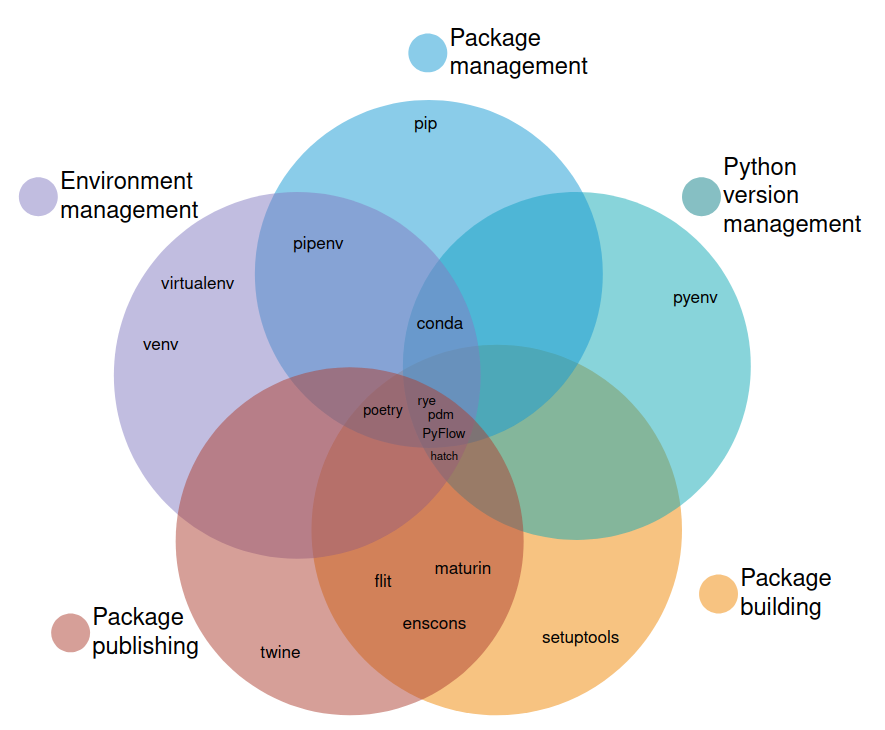
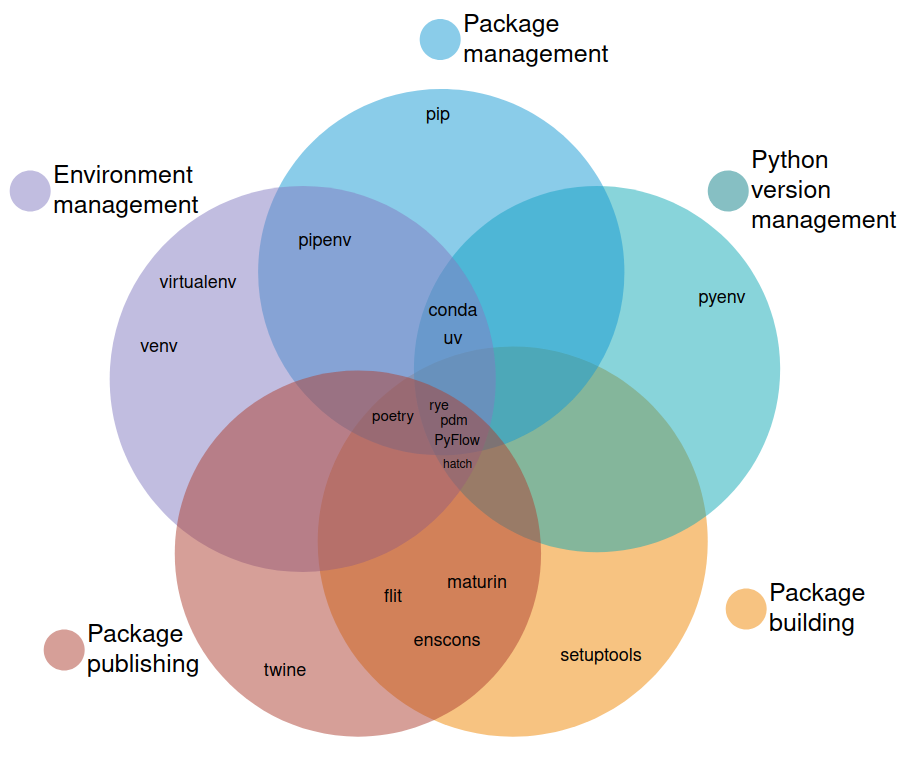
Updated existing packages, added uv

diff --git a/content/posts/python/packaging_tools.md b/content/posts/python/packaging_tools.md
@@ -9,6 +9,9 @@ menu:
     weight: 1
 ---
 
+## Last update
+This post was last updated on August 29th, 2024.
+
 ## Motivation
 When I started with Python and created my first package I was confused. Creating and managing a package seemed much harder than I expected. In addition, multiple tools existed and I wasn't sure which one to use. I'm sure most of you had the very same problem in the past. Python has a zillion tools to manage virtual environments and create packages and it can be hard (or almost impossible) to understand which one fits your needs. Several talks and blog post on the topic exist, but none of them gives a complete overview or evaluates the tools in a structured fashion. This is what this post is about. I want to give you a truly unbiased evaluation of existing packaging and environment management tools. In case you'd rather watch a talk, take a look at the recording of [PyCon DE 2023](https://www.youtube.com/watch?v=MsJjzVIVs6M) or [EuroPython 2023](https://www.youtube.com/watch?v=3-drZY3u5vo).
 
@@ -23,7 +26,7 @@ For the purpose of this article I identified five main categories that are impor
 
 As you can see in the Venn diagram below, lots of tools exist. Some can do a single thing (i.e. they are single-purpose), others can perform multiple tasks (hence I call them multi-purpose tools). 
 
-{{< img src="/posts/python/figures/venn_diagram.png" width="60%" align="center" >}}
+{{< img src="/posts/python/figures/venn_diagram_updated_08_2024.png" width="60%" align="center" >}}
 
 Let's walk through the categories keeping a developers perspective in mind. Let's say you are working on a personal project alongside your work projects. At work you're using Python 3.7 whereas your personal project should be using the newest Python version (currently 3.11). In other words: you want to be able to install different Python versions and switch between them. That's what our first category, **Python version management** is about.   
 Within your projects you are using other packages (e.g. `pandas` or `sklearn` for data science). These are dependencies of your project that you have to install and manage (e.g. upgrade when new versions are released). This is what **package management** is about.   
@@ -42,9 +45,9 @@ Why would we want to use different Python versions? There are several reasons. F
 
 ### Tools
 
-Our Venn diagram displays the available tools for Python version management: `pyenv, conda, rye` and `PyFlow`. We will first look at `pyenv` and consider the multi-purpose tools in a separate section.
+Our Venn diagram displays the available tools for Python version management: `pyenv, conda, rye, pdm, hatch` and `PyFlow`. We will first look at `pyenv` and consider the multi-purpose tools in a separate section.
 
-{{< img src="/posts/python/figures/python_version_management.png" width="60%" align="center" >}}
+{{< img src="/posts/python/figures/python_version_management_updated_08_2024.png" width="60%" align="center" >}}
 
 ### pyenv
 Python has one single-purpose tool that lets you install and manage Python versions: [pyenv](https://github.com/pyenv/pyenv)! Pyenv is easy to use. The most important commands are the following:
@@ -70,7 +73,7 @@ Why do we want to use environments in the first place? As mentioned in the begin
 
 Many tools allow users to create and manage environments. These are: `venv, virtualenv, pipenv, conda, pdm, poetry, hatch, rye` and `PyFlow`. Only two of them are single-purpose tools: `venv` and `virtualenv`. Let's look at both of them in more detail.
 
-{{< img src="/posts/python/figures/env_management.png" width="60%" align="center" >}}
+{{< img src="/posts/python/figures/env_management_updated_08_2024.png" width="60%" align="center" >}}
 
 ### venv
 [Venv](https://docs.python.org/3/library/venv.html) is the built-in Python package for creating virtual environments. This means that it is shipped with Python and does not have to be installed by the user. The most important commands are the following:
@@ -115,7 +118,7 @@ Why do we care about packages? Packages allow us to define a hierarchy of module
 
 Lots of tools can perform package management: `pip, pipx, pipenv, conda, pdm, poetry, rye` and `PyFlow`. The single-purpose tool for package management is `pip` which is well known in the Python community.
 
-{{< img src="/posts/python/figures/package_management.png" width="60%" align="center" >}}
+{{< img src="/posts/python/figures/package_management_updated_08_2024.png" width="60%" align="center" >}}
 
 #### pip
 The standard package manager for Python is [`pip`](https://pip.pypa.io/en/stable/). It's shipped with Python and allows you to install packages from PyPI and other indexes. The main command (probably one of the first commands a Python developer learns) is `pip install <package_name>`. Of course, `pip` offers lots of other options. Check out [the documentation](https://pip.pypa.io/en/stable/) for more information about available flags, etc.
@@ -133,7 +136,7 @@ Knowing about lock files we can start looking at tools that perform several task
 
 As the name suggests, [`pipenv`](https://pipenv.pypa.io/en/latest/) combines `pip` and `virtualenv`. It allows you to perform virtual environment management and package management  as we can see in our Venn diagram:
 
-{{< img src="/posts/python/figures/pipenv.png" width="60%" align="center" >}}
+{{< img src="/posts/python/figures/pipenv_updated_08_2024.png" width="60%" align="center" >}}
 
 `pipenv` introduces two additional files:
 - `Pipfile`
@@ -157,7 +160,7 @@ pipenv shell
 
 [`Conda`](https://conda.io/projects/conda/en/latest/index.html) is a general-purpose package management system. That means that it's not limited to Python packages. Conda is a huge tool with lots of capabilities. Lot's of tutorials and blog posts exist (for example [the official one](https://conda.io/projects/conda/en/latest/user-guide/getting-started.html#managing-python)) so I won't go into more detail here. However, I want to mention one thing: while it is possible to build and publish a package with `conda` I did not include the tool in the appropriate categories. That's because packaging with `conda` works a little differently and the resulting packages will be `conda` packages.
 
-{{< img src="/posts/python/figures/conda.png" width="60%" align="center" >}}
+{{< img src="/posts/python/figures/conda_updated_08_2024.png" width="60%" align="center" >}}
 
 ### Feature evaluation
 Last but not least I want to present multi-purpose tools for packaging. I promised an unbiased evaluation. For this purpose I created a list of features that I consider important when comparing different tools. The features are:
@@ -187,7 +190,7 @@ Regarding the two PEPs: Python has a lot of open and closed PEPs on packaging. F
    
 This is also reflected in our Venn diagram:   
 
-{{< img src="/posts/python/figures/flit.png" width="60%" align="center" >}}
+{{< img src="/posts/python/figures/flit_updated_08_2024.png" width="60%" align="center" >}}
 
 
 #### Feature evaluation
@@ -218,9 +221,11 @@ flit publish
 - Building a package: ✅
 - Publishing a package: ✅
 
-{{< img src="/posts/python/figures/poetry.png" width="60%" align="center" >}}
+{{< img src="/posts/python/figures/poetry_updated_08_2024.png" width="60%" align="center" >}}
 
 Taking a look at the feature evaluation below you will see than Poetry does **not** support PEP 621. There has been an open issue about this on GitHub for about 1.5 years, but it hasn't been integrated into the main code base (yet). 
+
+Update (29.08.2024): The next major release of Poetry (Poetry 2.0) will support PEP 621 (see [this discussion](https://github.com/orgs/python-poetry/discussions/5833) on GitHub).
 
 
 #### Feature evaluation
@@ -280,8 +285,12 @@ poetry publish
 [PDM](https://pdm.fming.dev/latest/) is a relatively new package and dependency manager (started in 2019) that is strongly inspired by Poetry and PyFlow. You will notice that I'm not talking about PyFlow in this article. That's because PyFlow is not actively developed anymore - a must in the quickly evolving landscape of packaging. Being a new(er) tool, PDM requires Python 3.7 or higher. Another difference to other tools is that PDM allows users to choose a build backend.   
 PDM is the only tool (apart from PyFlow) that implements [PEP 582](https://peps.python.org/pep-0582/) on local packages, an alternative way of implementing environment management. Note that this PEP was recently rejected.
 
-As visible in the Venn diagram, PDM sits right next to Poetry. That means that it can do everything except for Python version management:
-- Python version management: ❌
+As visible in the Venn diagram, PDM sits right next to Poetry. That means that it can do everything except for Python version management. 
+
+Update (29.08.2024): PDM has added the functionality to install Python versions using the `pdm python install` command ([official documentation](https://pdm-project.org/latest/reference/cli/#python)). You can switch between different Python versions using the `pdm use` command ([official documentation](https://pdm-project.org/latest/usage/hooks/#switching-python-version)).
+
+The updated table now looks as follows:
+- Python version management: ✅
 - Package management: ✅
 - Environment management: ✅
 - Building a package: ✅
@@ -289,7 +298,8 @@ As visible in the Venn diagram, PDM sits right next to Poetry. That means that i
 
 The main commands of PDM are similar to Poetry. However, less commands exist. For example, there is no `pdm shell` or `pdm new` at the moment.
 
-{{< img src="/posts/python/figures/pdm.png" width="60%" align="center" >}}
+
+{{< img src="/posts/python/figures/pdm_updated_08_2024.png" width="60%" align="center" >}}
 
 
 #### Feature evaluation
@@ -349,11 +359,13 @@ pdm publish
 - Building a package: ✅
 - Publishing a package: ✅
 
-It should be noted that the author of Hatch promised that locking functionality will be added soon, which should also enable package management. Please make sure to check the latest version of Hatch to see if this has been implemented when you read this article.
-
 Update: Since version 1.8.0, Hatch provides the ability to manage Python installations, e.g. using `hatch python install`. Currently, only major.minor versions can be installed like 3.7 or 3.8, but not specific patches like 3.7.4.
 
-{{< img src="/posts/python/figures/hatch.png" width="60%" align="center" >}}
+It should be noted that the author of Hatch promised that locking functionality will be added soon, which should also enable package management. Please make sure to check the latest version of Hatch to see if this has been implemented when you read this article.
+
+Update (29.08.2024): Hatch still does not have locking functionality and is hence not able to perform package management.
+
+{{< img src="/posts/python/figures/hatch_updated_08_2024.png" width="60%" align="center" >}}
 
 #### Feature evaluation
 | |  |    
@@ -419,7 +431,7 @@ Special about Hatch is that it allows you to configure your virtual environments
 
 Currently, Rye does not have a plugin interface. However, since new releases are published on a regular basis, this might be added in the future.
 
-{{< img src="/posts/python/figures/rye.png" width="60%" align="center" >}}
+{{< img src="/posts/python/figures/rye_updated_08_2024.png" width="60%" align="center" >}}
 
 #### Feature evaluation
 | |  |    
@@ -468,15 +480,57 @@ rye build
 rye publish 
 ```
 
+### uv
+
+The newes addition to the Python packaging landscape is [`uv`](https://astral.sh/blog/uv). Similar to `rye`, `uv` is written in Rust. Actually, the company behind `uv` (Astral) has taken stewardship of `rye` and will "maintain Rye as we expand uv into a unified successor project". At the moment, `uv` can do everything besides building and publishing a package. However, this might change in the future. Therefore, I haven't added `uv` to all Venn diagrams yet. To dive deeper into `uv`, check out [the official documentation](https://docs.astral.sh/uv/getting-started/).
+
+{{< img src="/posts/python/figures/uv.png" width="60%" align="center" >}}
+
+- Python version management: ✅
+- Package management: ✅
+- Environment management: ✅
+- Building a package: ❌
+- Publishing a package: ❌
+
+#### Creating a new project
+```bash
+# Create directory structure and pyproject.toml
+uv init <project_name>
+
+# Install a specific Python version
+uv python install 3.12.3
+```
+
+#### Dependency management
+```python
+# Add dependency
+uv add <package_name>
+
+# Remove a dependene
+uv remove <package_name>
+```
+
+#### Running code
+```bash
+# Run script within virtual env
+uv run <script_name.py>
+
+# Alternatively, you can manually update the environment
+# and then activate it before executing a command
+uv sync
+source .venv/bin/activate
+python <script_name.py>
+```
+
 ### Overview
-|                                   |Flit  |Poetry| PDM  | Hatch| Rye |
-| -------                           |--------|--------|--------|--------|-------|
-| Does the tool manage dependencies?   | ❌     | ✅     | ✅     | ❌     |  ✅   |
-| Does it resolve/lock dependencies?   | ❌     | ✅     | ✅     | ❌     |  ✅   |   
-| Is there a clean build/publish flow? | ✅     | ✅     | ✅     |  ✅    |  ✅   |  
-| Does it allow to use plugins?        | ❌     | ✅     | ✅     | ✅     |  ❌   | 
-| Does it support PEP 660 (editable installs)?  | ✅     | ✅     | ✅     | ✅     |  ✅   |    
-| Does it support PEP 621 (project metadata)?   | ✅     | ❌     | ✅     | ✅     |  ✅   |
+|                                   |Flit  |Poetry| PDM  | Hatch| Rye | uv | 
+| -------                           |--------|--------|--------|--------|-------|-------|
+| Does the tool manage dependencies?   | ❌     | ✅     | ✅     | ❌     |  ✅   |  ✅   |
+| Does it resolve/lock dependencies?   | ❌     | ✅     | ✅     | ❌     |  ✅   |  ✅   |   
+| Is there a clean build/publish flow? | ✅     | ✅     | ✅     |  ✅    |  ✅   |   ❌  | 
+| Does it allow to use plugins?        | ❌     | ✅     | ✅     | ✅     |  ❌   |  ❌   | 
+| Does it support PEP 660 (editable installs)?  | ✅     | ✅     | ✅     | ✅     |  ✅   |  ✅   | 
+| Does it support PEP 621 (project metadata)?   | ✅     | ❌     | ✅     | ✅     |  ✅   |  ✅   | 
 
 ## Tools that do not fit the categories
 
